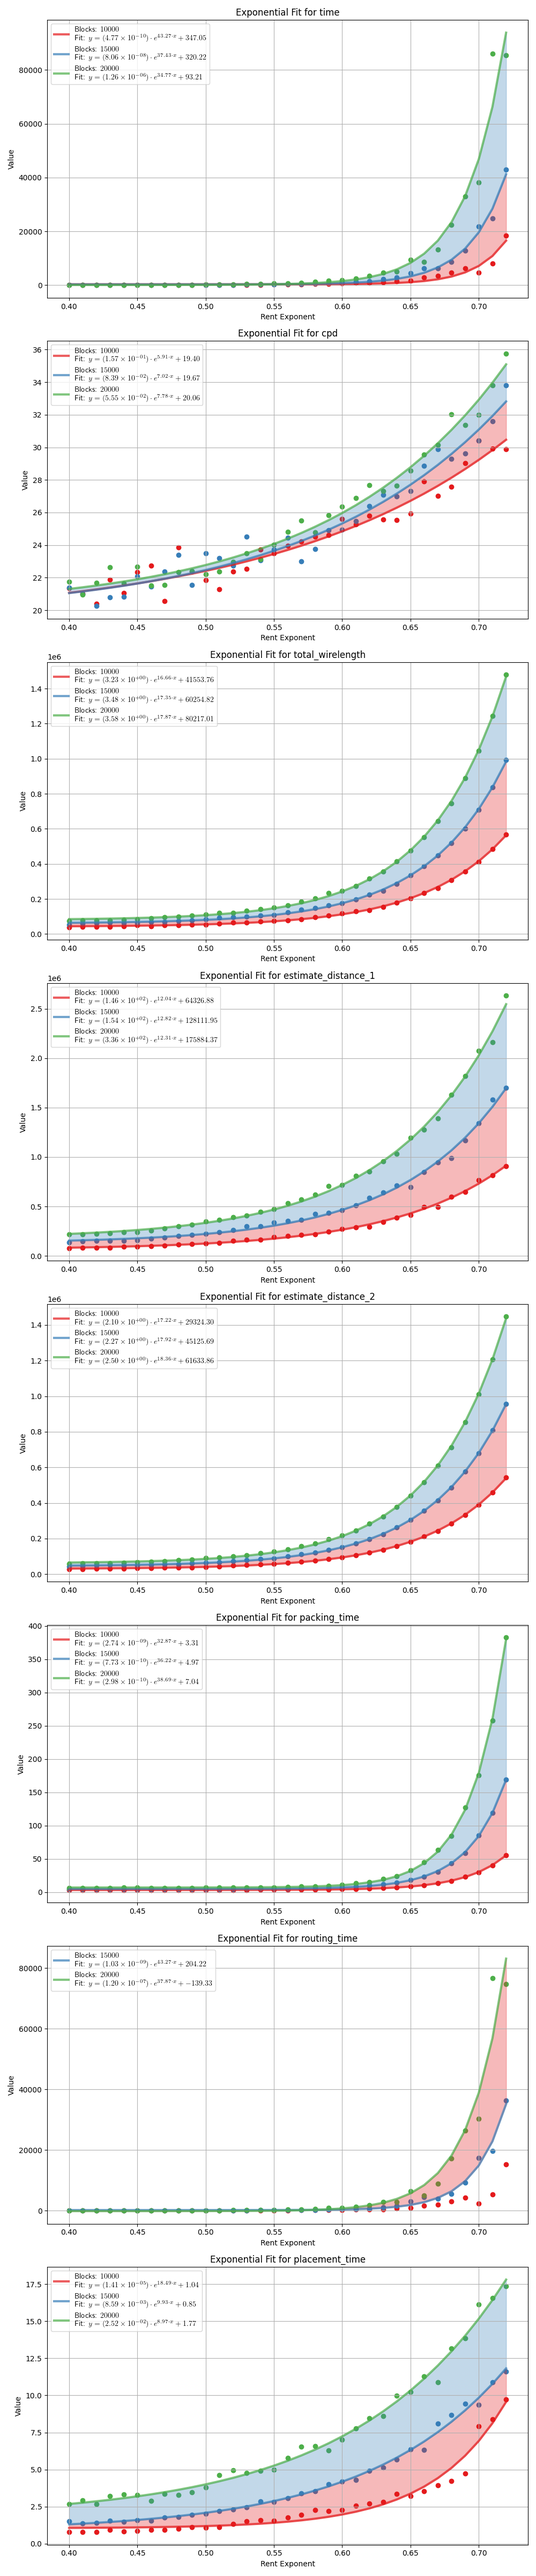
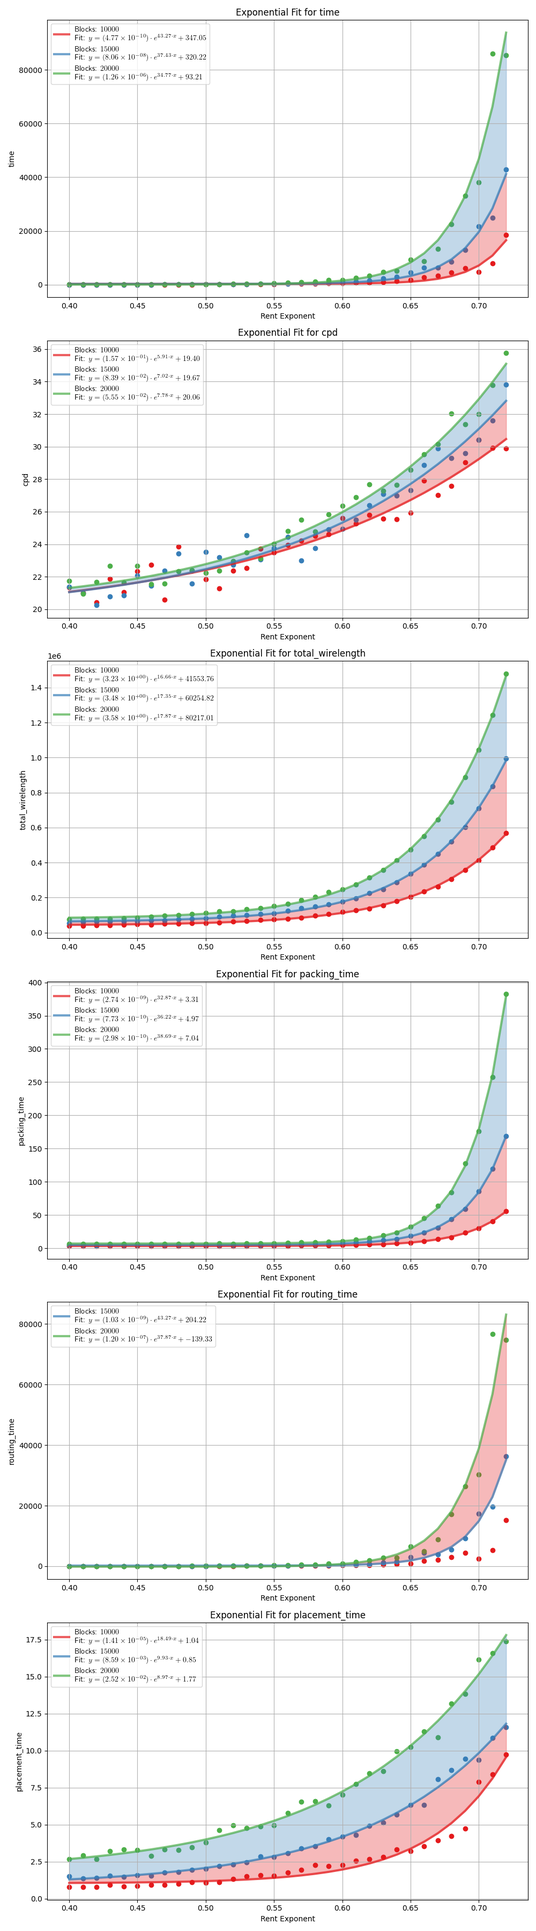
modified - compvpr

diff --git a/post_process/compvpr.py b/post_process/compvpr.py
@@ -116,9 +116,269 @@ import numpy as np
 #     plt.show()
 
 
-def draw_fit_in_diff_files(filenames, columns_to_fit, rent_length=None):
-    def exponential_func(x, a, b, c):
-        return a * np.exp(b * x) + c
+def extract_number(filename):
+    numbers = re.findall(r'\d+', filename)
+    return int(numbers[0]) if numbers else 0
+
+
+def linear_func(x, a, b):
+    return a * x + b
+
+
+def exponential_func(x, a, b, c):
+    return a * np.exp(b * x) + c
+
+
+y_axis_labels = {
+    'time': 'Time (sec)',
+    'cpd': 'CPD (ns)',
+    'total_wirelength': 'Total Wirelength',
+    'packing_time': 'Packing Time (sec)',
+    'routing_time': 'Routing Time (sec)',
+    'placement_time': 'Placement Time (sec)'
+}
+
+
+def draw_double_log_fit_in_diff_files(filenames, columns_to_fit, rent_length=None, savefigure=True):
+    sorted_filenames = sorted(filenames, key=extract_number)
+
+    fig, axs = plt.subplots(len(columns_to_fit), 1, figsize=(10, 6 * len(columns_to_fit)))
+    plt.rcParams.update({
+        "text.usetex": True,
+        "text.latex.preamble": r"\usepackage{xcolor}"
+    })
+    if not isinstance(axs, np.ndarray):
+        axs = [axs]
+
+    # Create a colormap instance
+    cmap = plt.colormaps.get_cmap('Set1')
+    main_directory = os.path.abspath(os.path.join(os.path.dirname(filenames[0]), '..', '..'))
+    pics_directory = os.path.join(main_directory, 'pics')
+
+    for i, column in enumerate(columns_to_fit):
+        fitted_values_region = []
+        rent_exp = []
+
+        for j, filename in enumerate(sorted_filenames):
+            data = pd.read_csv(filename)
+            sorted_data = data.sort_values(by='rent_exp')
+            clean_data = sorted_data.dropna(subset=[column])
+            numbers = re.findall(r'\d+', os.path.basename(filename))
+            rent_exp.append(clean_data['rent_exp'].values)
+            number = numbers[0] if numbers else os.path.basename(filename)
+            if clean_data.empty:
+                print(f"Warning: No data available for column '{column}' in file '{filename}'")
+                continue
+
+            if rent_length is not None:
+                rent_exp_data = clean_data['rent_exp'].values[:rent_length]
+                clean_data_value = clean_data[column].values[:rent_length]
+            else:
+                rent_exp_data = clean_data['rent_exp'].values
+                clean_data_value = clean_data[column].values
+
+            # Apply logarithm to the y-axis data and handle invalid values
+            valid_mask = (clean_data_value > 0) & (~np.isinf(clean_data_value))
+            clean_data_value = clean_data_value[valid_mask]
+            rent_exp_data = rent_exp_data[valid_mask]
+
+            log_clean_data_value = np.log(np.log(clean_data_value))
+            valid_mask = ~np.isinf(log_clean_data_value) & ~np.isnan(log_clean_data_value)
+            log_clean_data_value = log_clean_data_value[valid_mask]
+            rent_exp_data = rent_exp_data[valid_mask]
+
+            if len(log_clean_data_value) == 0:
+                print(f"Warning: All data for column '{column}' in file '{filename}' resulted in invalid log values.")
+                continue
+            label = f'Blocks: ${number}$'
+            axs[i].scatter(rent_exp_data, log_clean_data_value, color=cmap(j), label=label)
+            try:
+                if rent_length is not None:
+                    popt, _ = curve_fit(linear_func, rent_exp_data[:rent_length],
+                                        log_clean_data_value[:rent_length])
+                    fitted_values = linear_func(rent_exp_data[:rent_length], *popt)
+                else:
+                    popt, _ = curve_fit(linear_func, rent_exp_data, log_clean_data_value)
+                    fitted_values = linear_func(rent_exp_data, *popt)
+
+                fitted_values_region.append(fitted_values)
+
+                a, b = popt
+                a_sci = f"{a:.2e}".split('e')  # Split into base and exponent
+                a_base, a_exp = a_sci[0], a_sci[1]
+                # label = f'Blocks: ${number}$\n Fit: $\\ln(\\ln(y)) =  ({a_base} \\times 10^{{{a_exp}}})x + {b:.2f}$'
+                #
+                color = cmap(j)  # Use colormap to determine the color
+
+                # axs[i].plot(rent_exp_data, fitted_values, label=label, color=color, linewidth=3, alpha=0.7)
+
+            except RuntimeError:
+                print(f"Error: Unable to fit linear curve for column '{column}' in file '{filename}'")
+                continue
+
+        if fitted_values_region:
+            shortest_length = min(len(values) for values in fitted_values_region)
+            if rent_length is not None and rent_length <= shortest_length:
+                shortest_length = rent_length
+        else:
+            print("Not enough data points were successfully fitted to compare lengths.")
+            shortest_length = None
+
+        resized_fitted_values = []
+        for values in fitted_values_region:
+            resized_values = values[:shortest_length]  # Keep only the first 'shortest_length' elements
+            resized_fitted_values.append(resized_values)
+
+        # for k in range(len(resized_fitted_values) - 1):
+        #     axs[i].fill_between(max(rent_exp, key=len)[:shortest_length], resized_fitted_values[k],
+        #                         resized_fitted_values[k + 1],
+        #                         color=cmap(k), alpha=0.3)
+
+        # Further plotting logic and setup as in your original code
+        y_label = y_axis_labels.get(column, f'Log(Log({column}))')
+        axs[i].set_xlabel('Rent Exponent')
+        axs[i].set_ylabel(f'Log(Log({column}))')
+        axs[i].set_title(f'Double Logarithmic scale for {column}')
+        axs[i].legend()
+        axs[i].grid(True)
+
+        individual_plot_path = os.path.join(pics_directory, f'{column}_vpr_flow_log_log.png')
+        fig_individual, ax_individual = plt.subplots()
+        ax_individual.scatter(rent_exp_data, log_clean_data_value, color=cmap(i), label=label)
+        # if fitted_values_region:
+        #     ax_individual.plot(rent_exp_data, fitted_values, color=color, linewidth=3, alpha=0.7)
+        ax_individual.set_xlabel('Rent Exponent')
+        ax_individual.set_ylabel(y_label)
+        ax_individual.set_title(f'Double Logarithmic scale for {column}')
+        ax_individual.legend()
+        ax_individual.grid(True)
+        if savefigure:
+            fig_individual.savefig(individual_plot_path)
+        plt.close(fig_individual)
+    plt.tight_layout()
+    if savefigure:
+
+        plt.savefig(os.path.join(pics_directory, 'rent_exp_influence_vpr_flow_log_log.png'))
+    plt.show()
+
+
+def draw_log_fit_in_diff_files(filenames, columns_to_fit, rent_length=None, savefigure=True):
+    sorted_filenames = sorted(filenames, key=extract_number)
+
+    fig, axs = plt.subplots(len(columns_to_fit), 1, figsize=(10, 6 * len(columns_to_fit)))
+    plt.rcParams.update({
+        "text.usetex": True,
+        "text.latex.preamble": r"\usepackage{xcolor}"
+    })
+    if not isinstance(axs, np.ndarray):
+        axs = [axs]
+
+    # Create a colormap instance
+    cmap = plt.colormaps.get_cmap('Set1')
+    main_directory = os.path.abspath(os.path.join(os.path.dirname(filenames[0]), '..', '..'))
+    pics_directory = os.path.join(main_directory, 'pics')
+
+    for i, column in enumerate(columns_to_fit):
+        fitted_values_region = []
+        rent_exp = []
+
+        for j, filename in enumerate(sorted_filenames):
+            data = pd.read_csv(filename)
+            sorted_data = data.sort_values(by='rent_exp')
+            clean_data = sorted_data.dropna(subset=[column])
+            numbers = re.findall(r'\d+', os.path.basename(filename))
+            rent_exp.append(clean_data['rent_exp'].values)
+            number = numbers[0] if numbers else os.path.basename(filename)
+            if clean_data.empty:
+                print(f"Warning: No data available for column '{column}' in file '{filename}'")
+                continue
+
+            if rent_length is not None:
+                rent_exp_data = clean_data['rent_exp'].values[:rent_length]
+                clean_data_value = clean_data[column].values[:rent_length]
+            else:
+                rent_exp_data = clean_data['rent_exp'].values
+                clean_data_value = clean_data[column].values
+
+            # Apply logarithm to the y-axis data
+            log_clean_data_value = np.log(clean_data_value)
+
+            axs[i].scatter(rent_exp_data, log_clean_data_value, color=cmap(j))
+            try:
+                if rent_length is not None:
+                    popt, _ = curve_fit(exponential_func, clean_data['rent_exp'].iloc[:rent_length],
+                                        log_clean_data_value[:rent_length])
+                    fitted_values = exponential_func(clean_data['rent_exp'].iloc[:rent_length], *popt)
+                else:
+                    popt, _ = curve_fit(exponential_func, clean_data['rent_exp'], log_clean_data_value)
+                    fitted_values = exponential_func(clean_data['rent_exp'], *popt)
+
+                fitted_values_region.append(fitted_values)
+
+                a, b, c = popt
+                a_sci = f"{a:.2e}".split('e')
+                a_base, a_exp = a_sci[0], a_sci[1]
+                # label = f'Blocks: {number}\nFit: $y = ({a:.2e}) \\cdot e^{{-b:.2f \\cdot x}} + {c:.2f}$'
+                label = f'Blocks: ${number}$\n Fit: $y =  ({a_base} \\times 10^{{{a_exp}}})\\cdot e^{{{b:.2f} \\cdot x}} + {c:.2f}$'
+
+                color = cmap(j)  # Use colormap to determine the color
+
+                axs[i].plot(rent_exp_data, fitted_values, label=label, color=color, linewidth=3, alpha=0.7)
+
+
+            except RuntimeError:
+                print(f"Error: Unable to fit linear curve for column '{column}' in file '{filename}'")
+                continue
+
+        if fitted_values_region:
+            shortest_length = min(len(values) for values in fitted_values_region)
+            if rent_length is not None and rent_length <= shortest_length:
+                shortest_length = rent_length
+        else:
+            print("Not enough data points were successfully fitted to compare lengths.")
+            shortest_length = None
+
+        resized_fitted_values = []
+        for values in fitted_values_region:
+            resized_values = values[:shortest_length]  # Keep only the first 'shortest_length' elements
+            resized_fitted_values.append(resized_values)
+
+        for k in range(len(resized_fitted_values) - 1):
+            axs[i].fill_between(max(rent_exp, key=len)[:shortest_length], resized_fitted_values[k],
+                                resized_fitted_values[k + 1],
+                                color=cmap(k), alpha=0.3)
+
+        # Further plotting logic and setup as in your original code
+        y_label = y_axis_labels.get(column, f'Log(Log({column}))')
+        axs[i].set_xlabel('Rent Exponent')
+        axs[i].set_ylabel('Log(Value)')
+        axs[i].set_title(f'Logarithmic Fit for {column}')
+        axs[i].legend()
+        axs[i].grid(True)
+
+        # Save each sub-figure individually
+        individual_plot_path = os.path.join(pics_directory, f'{column}_vpr_flow_log.png')
+        fig_individual, ax_individual = plt.subplots()
+        ax_individual.scatter(rent_exp_data, log_clean_data_value, color=cmap(i), label=label)
+        if fitted_values_region:
+            ax_individual.plot(rent_exp_data, fitted_values, color=cmap(i), linewidth=3, alpha=0.7)
+        ax_individual.set_xlabel('Rent Exponent')
+        ax_individual.set_ylabel(y_label)
+        ax_individual.set_title(f'Logarithmic scale for {column}')
+        ax_individual.legend()
+        ax_individual.grid(True)
+        if savefigure:
+            fig_individual.savefig(individual_plot_path)
+        plt.close(fig_individual)
+
+    plt.tight_layout()
+    if savefigure:
+        plt.savefig(os.path.join(pics_directory, 'rent_exp_influence_vpr_flow_log.png'))
+    plt.show()
+
+
+def draw_fit_in_diff_files(filenames, columns_to_fit, rent_length=None, savefigure=True):
+
 
     sorted_filenames = sorted(filenames, key=extract_number)
 
@@ -132,6 +392,8 @@ def draw_fit_in_diff_files(filenames, columns_to_fit, rent_length=None):
 
     # Create a colormap instance
     cmap = plt.colormaps.get_cmap('Set1')  # 'viridis' with as many colors as there are files
+    main_directory = os.path.abspath(os.path.join(os.path.dirname(filenames[0]), '..', '..'))
+    pics_directory = os.path.join(main_directory, 'pics')
 
     for i, column in enumerate(columns_to_fit):
         fitted_values_region = []
@@ -167,7 +429,7 @@ def draw_fit_in_diff_files(filenames, columns_to_fit, rent_length=None):
                 fitted_values_region.append(fitted_values)
 
                 a, b, c = popt
-                a_sci = f"{a:.2e}".split('e')  # 分解为基数和指数
+                a_sci = f"{a:.2e}".split('e')
                 a_base, a_exp = a_sci[0], a_sci[1]
                 # label = f'Blocks: {number}\nFit: $y = ({a:.2e}) \\cdot e^{{-b:.2f \\cdot x}} + {c:.2f}$'
                 label = f'Blocks: ${number}$\n Fit: $y =  ({a_base} \\times 10^{{{a_exp}}})\\cdot e^{{{b:.2f} \\cdot x}} + {c:.2f}$'
@@ -182,7 +444,6 @@ def draw_fit_in_diff_files(filenames, columns_to_fit, rent_length=None):
 
         if fitted_values_region:
             shortest_length = min(len(values) for values in fitted_values_region)
-            print(f"shot length: {shortest_length}")
             if rent_length is not None and rent_length <= shortest_length:
                 shortest_length = rent_length
         else:
@@ -192,23 +453,36 @@ def draw_fit_in_diff_files(filenames, columns_to_fit, rent_length=None):
         for values in fitted_values_region:
             resized_values = values[:shortest_length]  # Keep only the first 'shortest_length' elements
             resized_fitted_values.append(resized_values)
-        print(resized_fitted_values)
         for k in range(len(resized_fitted_values) - 1):
             axs[i].fill_between(max(rent_exp, key=len)[:shortest_length], resized_fitted_values[k],
                                 resized_fitted_values[k + 1],
                                 color=cmap(k), alpha=0.3)
 
         # Further plotting logic and setup as in your original code
+        y_label = y_axis_labels.get(column, f'Log(Log({column}))')
         axs[i].set_xlabel('Rent Exponent')
-        axs[i].set_ylabel('Value')
+        axs[i].set_ylabel(f'{column}')
         axs[i].set_title(f'Exponential Fit for {column}')
         axs[i].legend()
         axs[i].grid(True)
 
+        # Save each sub-figure individually
+        individual_plot_path = os.path.join(pics_directory, f'{column}_vpr_flow.png')
+        fig_individual, ax_individual = plt.subplots()
+        ax_individual.scatter(rent_exp_data, clean_data_value, color=cmap(i), label=label)
+        if fitted_values_region:
+            ax_individual.plot(rent_exp_data, fitted_values, color=cmap(i), linewidth=3, alpha=0.7)
+        ax_individual.set_xlabel('Rent Exponent')
+        ax_individual.set_ylabel(y_label)
+        ax_individual.set_title(f'{column}')
+        ax_individual.legend()
+        ax_individual.grid(True)
+        if savefigure:
+            fig_individual.savefig(individual_plot_path)
+        plt.close(fig_individual)
     plt.tight_layout()
-    directory = os.path.dirname(filenames[0])
-
-    plt.savefig(os.path.join(directory, 'rent_exp_influence2vpr_flow.png'))
+    if savefigure:
+        plt.savefig(os.path.join(pics_directory, 'rent_exp_influence2vpr_flow.png'))
     plt.show()
 
 
@@ -243,6 +517,12 @@ if __name__ == '__main__':
 
     # Example function call, assuming this function is defined elsewhere
     draw_fit_in_diff_files(csv_files,
-                           columns_to_fit=['time', 'cpd', 'total_wirelength', 'estimate_distance_1', 'estimate_distance_2',
+                           columns_to_fit=['time', 'cpd', 'total_wirelength',
                                            'packing_time', 'routing_time', 'placement_time'], rent_length=33)
-    # draw_fit_in_diff_files(csv_files, columns_to_fit=['estimate_distance'], rent_length=33)
+    draw_log_fit_in_diff_files(csv_files,
+                           columns_to_fit=['time', 'cpd', 'total_wirelength',
+                                           'packing_time', 'routing_time', 'placement_time'], rent_length=33)
+    # # draw_fit_in_diff_files(csv_files, columns_to_fit=['estimate_distance'], rent_length=33)
+    draw_double_log_fit_in_diff_files(csv_files,
+                           columns_to_fit=['time', 'cpd', 'total_wirelength',
+                                           'packing_time', 'routing_time', 'placement_time'], rent_length=33)
